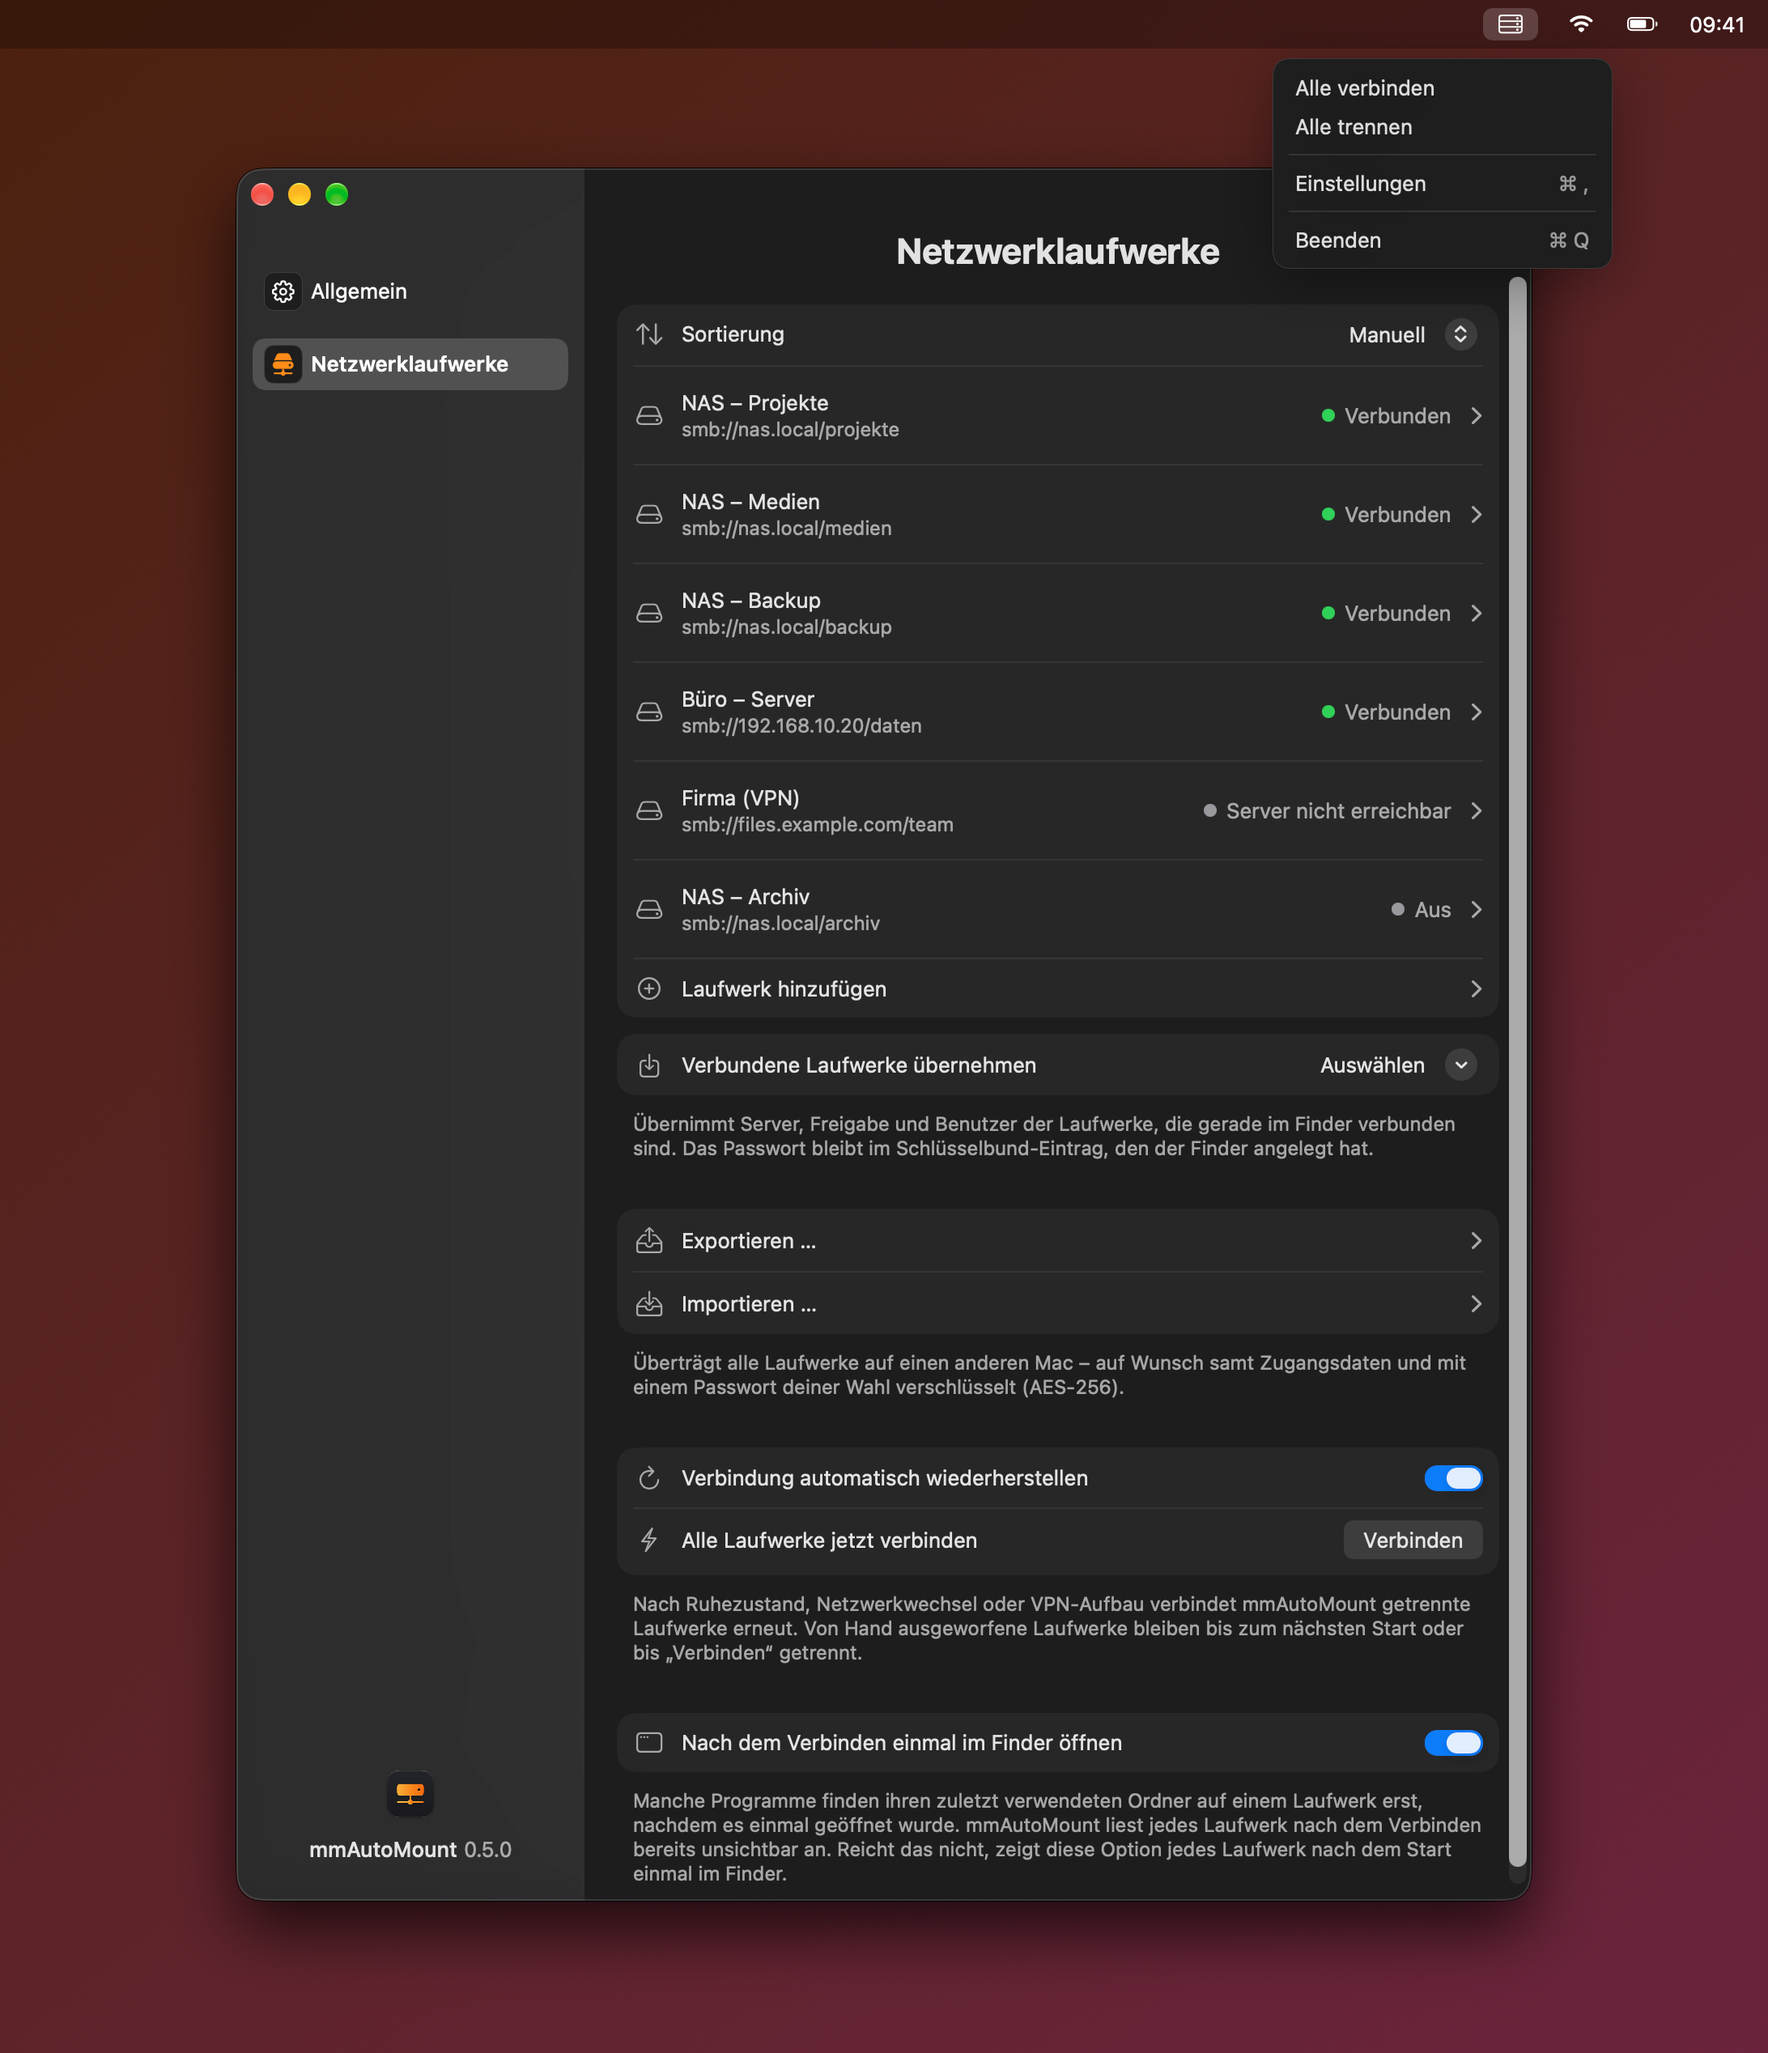
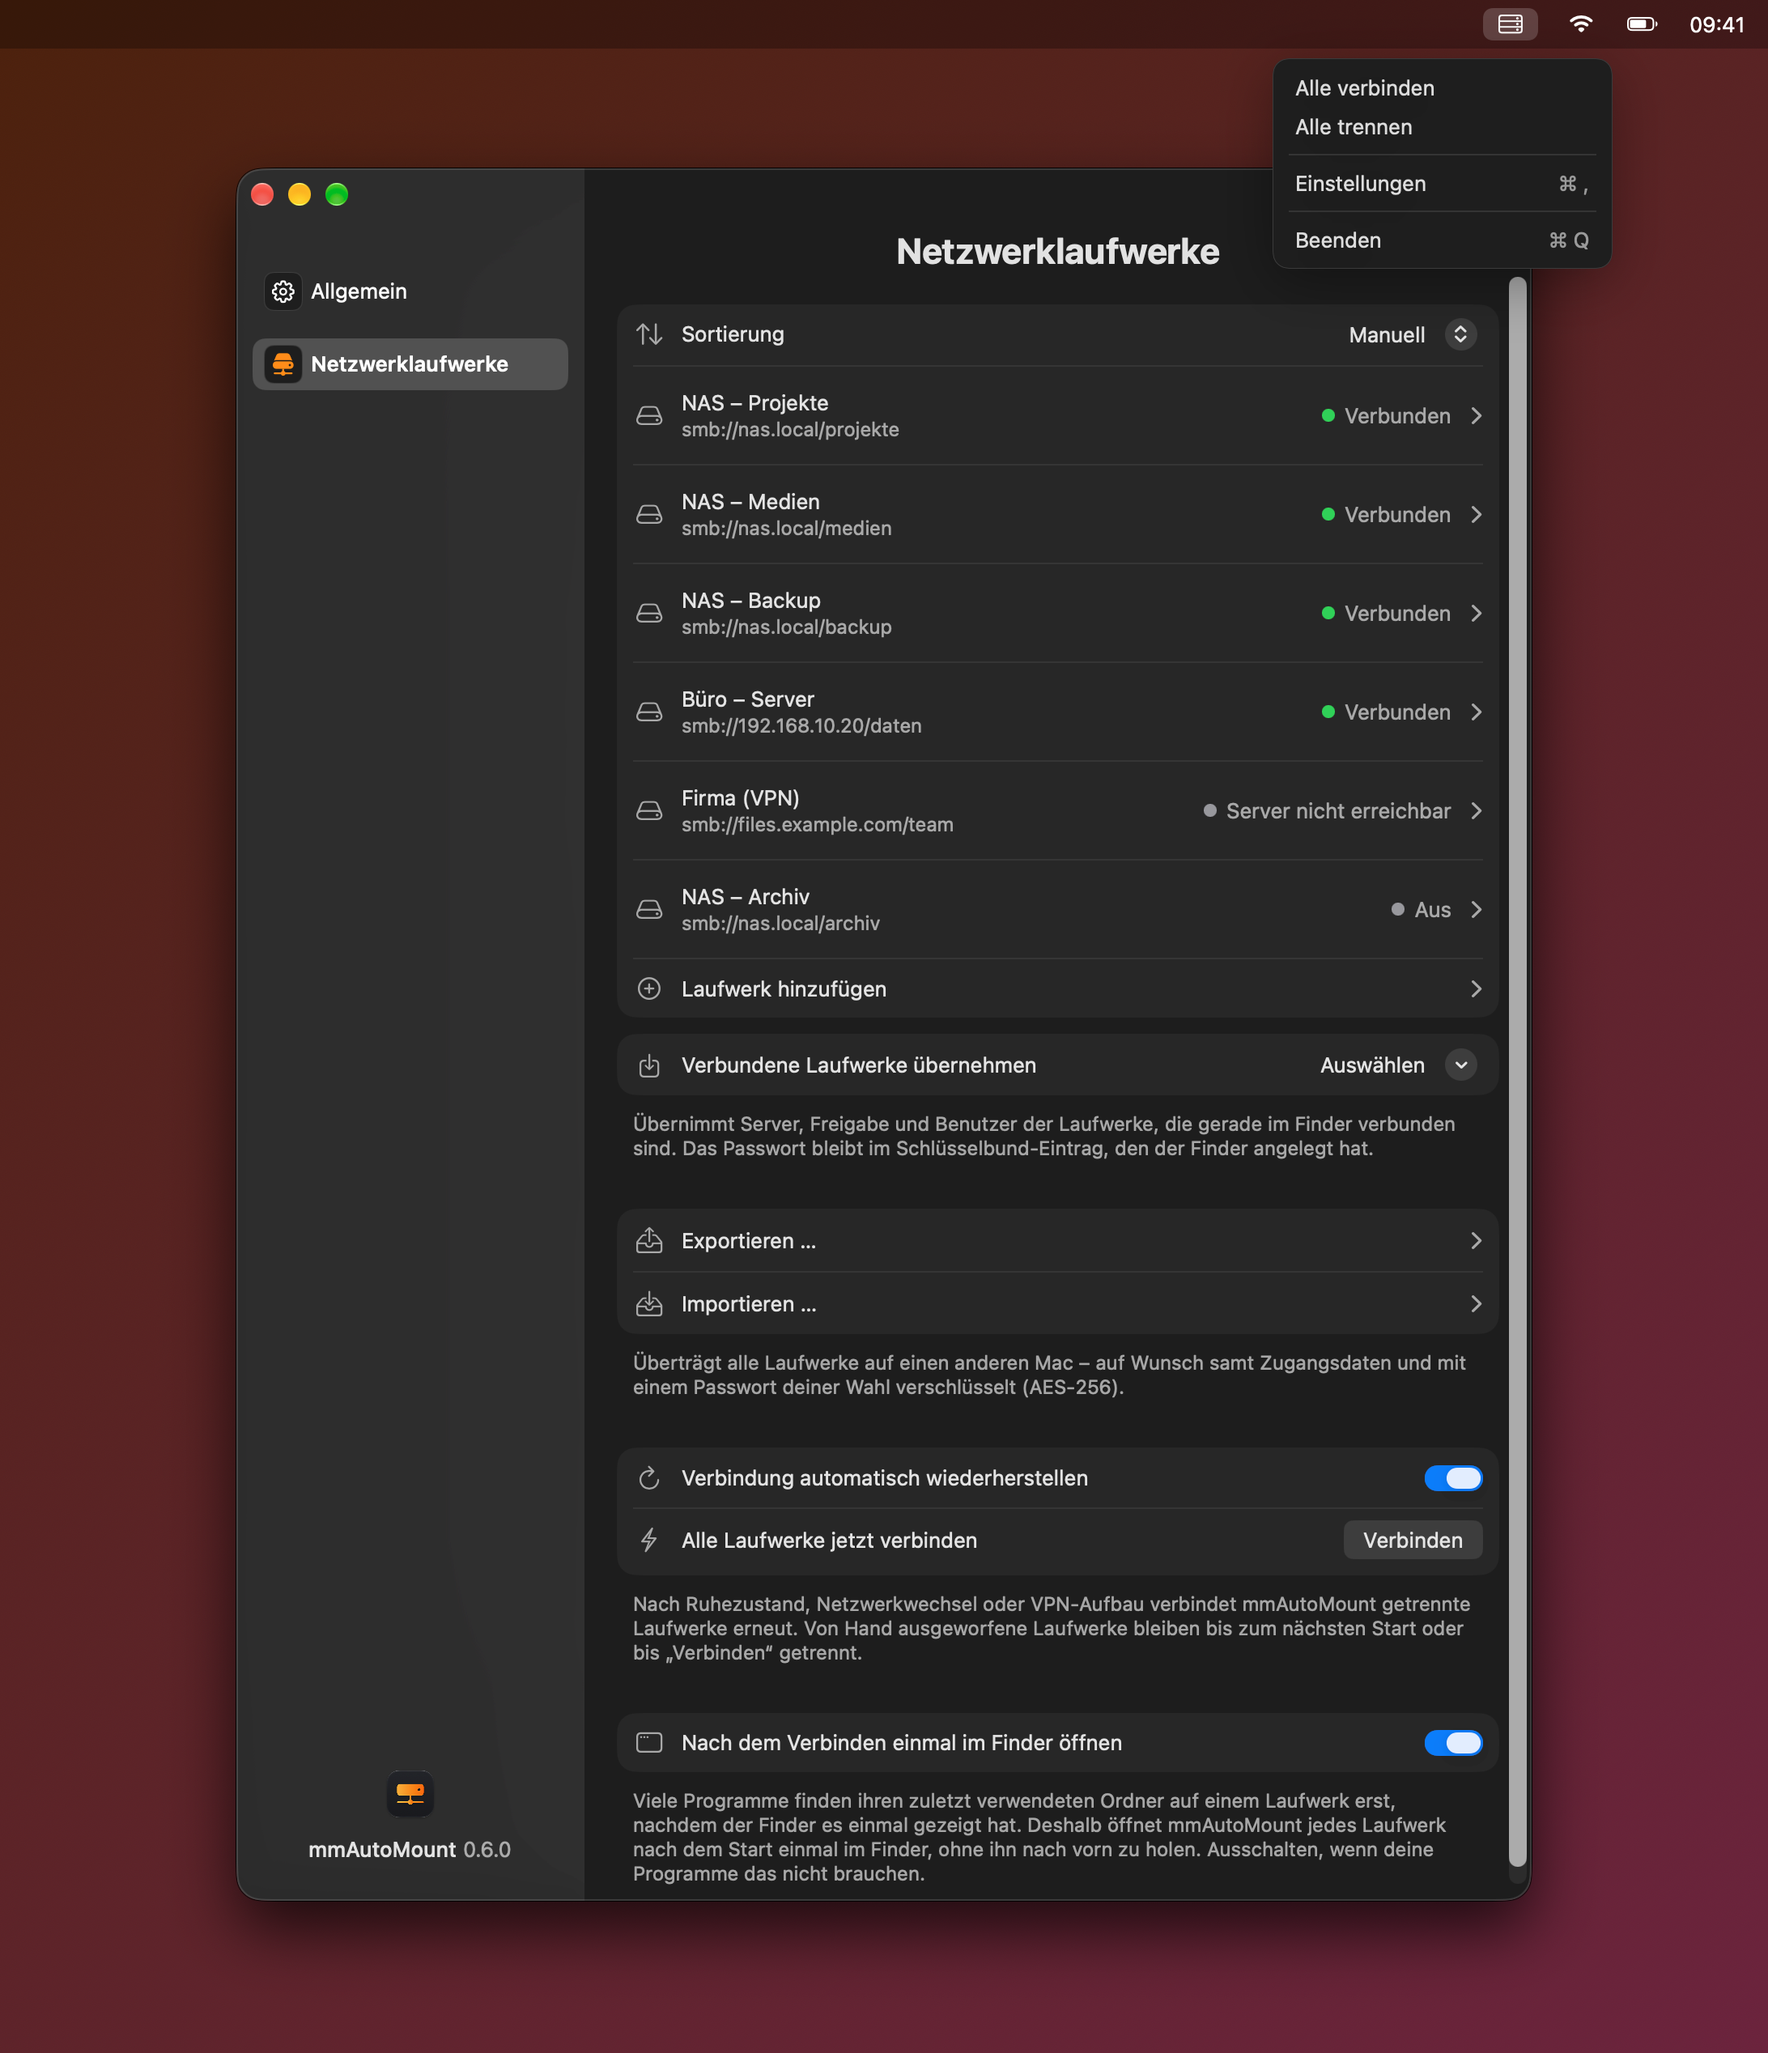
Bilder und README für 0.6.0: Erscheinungsbild, Finder-Option

Changed region(s): [[0.3736, 0.8722, 0.8407, 0.9345]]

diff --git a/README.md b/README.md
@@ -17,11 +17,12 @@
 ## Funktionen
 
 - **Automatisch verbinden:** nach der Anmeldung, nach dem Ruhezustand, bei Netzwerkwechsel und nach dem VPN-Aufbau. Von Hand ausgeworfene Laufwerke bleiben getrennt.
-- **Wie im Finder:** Die Laufwerke erscheinen unter `/Volumes` – Aliase und zuletzt verwendete Ordner funktionieren ohne Login-Fenster.
+- **Wie im Finder:** Die Laufwerke erscheinen unter `/Volumes` – Aliase funktionieren ohne Login-Fenster. Damit Programme ihre zuletzt verwendeten Ordner finden, zeigt mmAutoMount jedes Laufwerk nach dem Start einmal im Finder (abschaltbar).
 - **Zugangsdaten im Schlüsselbund:** eigenes Passwort, der Eintrag des Finders oder Gast. Nichts davon steht in den Einstellungen.
 - **Beliebig viele Laufwerke** (SMB, AFP, NFS, WebDAV): verbundene Laufwerke mit einem Klick übernehmen, Einträge duplizieren, sortieren per Drag & Drop, nach Name oder Änderungsdatum.
 - **Export und Import** für den Umzug auf einen anderen Mac – auf Wunsch samt Zugangsdaten und mit Passwort verschlüsselt (AES-256).
 - **Nur in der Menüleiste:** ein Klick öffnet die Einstellungen, ein Rechtsklick verbindet oder trennt alle Laufwerke. Das Symbol ist wählbar und abschaltbar.
+- **Erscheinungsbild** automatisch wie das System, hell oder dunkel.
 - **Automatische Updates** nach Bestätigung, **Deutsch, Englisch, Französisch, Italienisch und Spanisch**, Liquid Glass ab macOS 26.
 
 <picture>
@@ -81,11 +82,12 @@ Danach aktualisiert sich mmAutoMount selbst: Die App sucht täglich nach neuen V
 mmAutoMount connects your network drives automatically as soon as you log in to your Mac – without Finder’s sign-in window.
 
 - **Connects automatically:** after login, after sleep, on a network change and once your VPN is up. Drives you eject yourself stay disconnected.
-- **Just like Finder:** drives appear under `/Volumes` – aliases and recently used folders work without a login window.
+- **Just like Finder:** drives appear under `/Volumes` – aliases work without a login window. So that apps find their recently used folders, mmAutoMount shows every drive once in Finder after launch (can be switched off).
 - **Credentials in the keychain:** your own password, Finder’s keychain item, or guest. None of it is stored in the settings.
 - **Any number of drives** (SMB, AFP, NFS, WebDAV): import connected drives with one click, duplicate entries, sort by drag and drop, by name or by modification date.
 - **Export and import** for moving to another Mac – with credentials if you like, encrypted with a password (AES-256).
 - **Menu bar only:** a click opens the settings, a right-click connects or disconnects all drives. The icon can be chosen or hidden.
+- **Appearance** automatic like the system, light or dark.
 - **Automatic updates** once you confirm, **English, German, French, Italian and Spanish**, Liquid Glass on macOS 26 and later.
 
 <p align="center">
